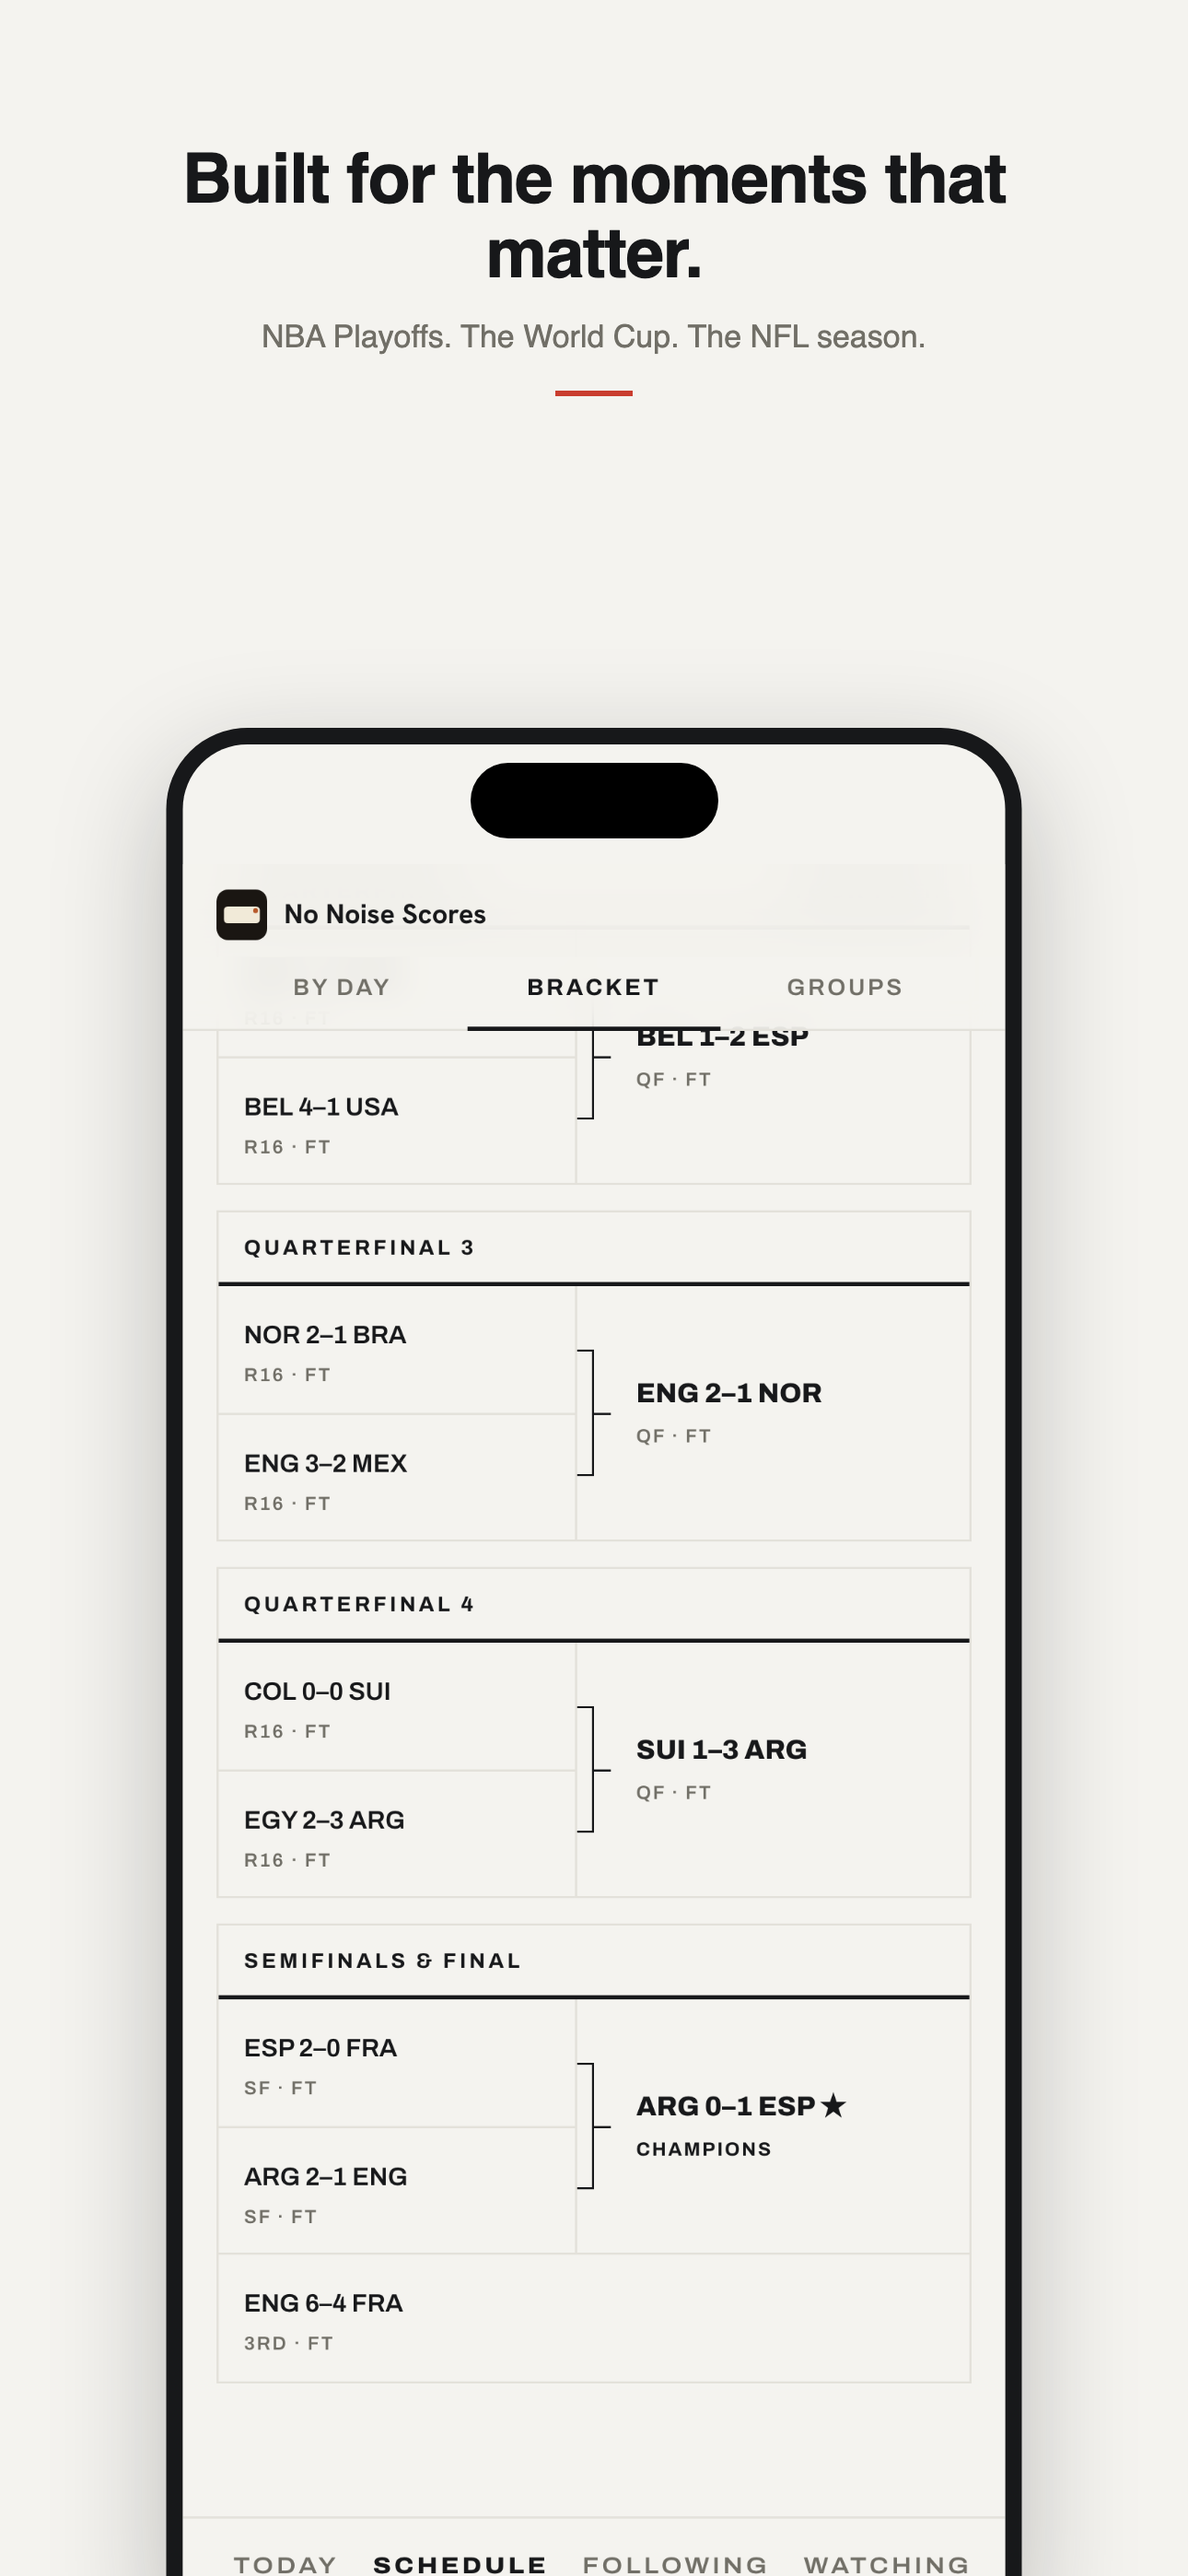
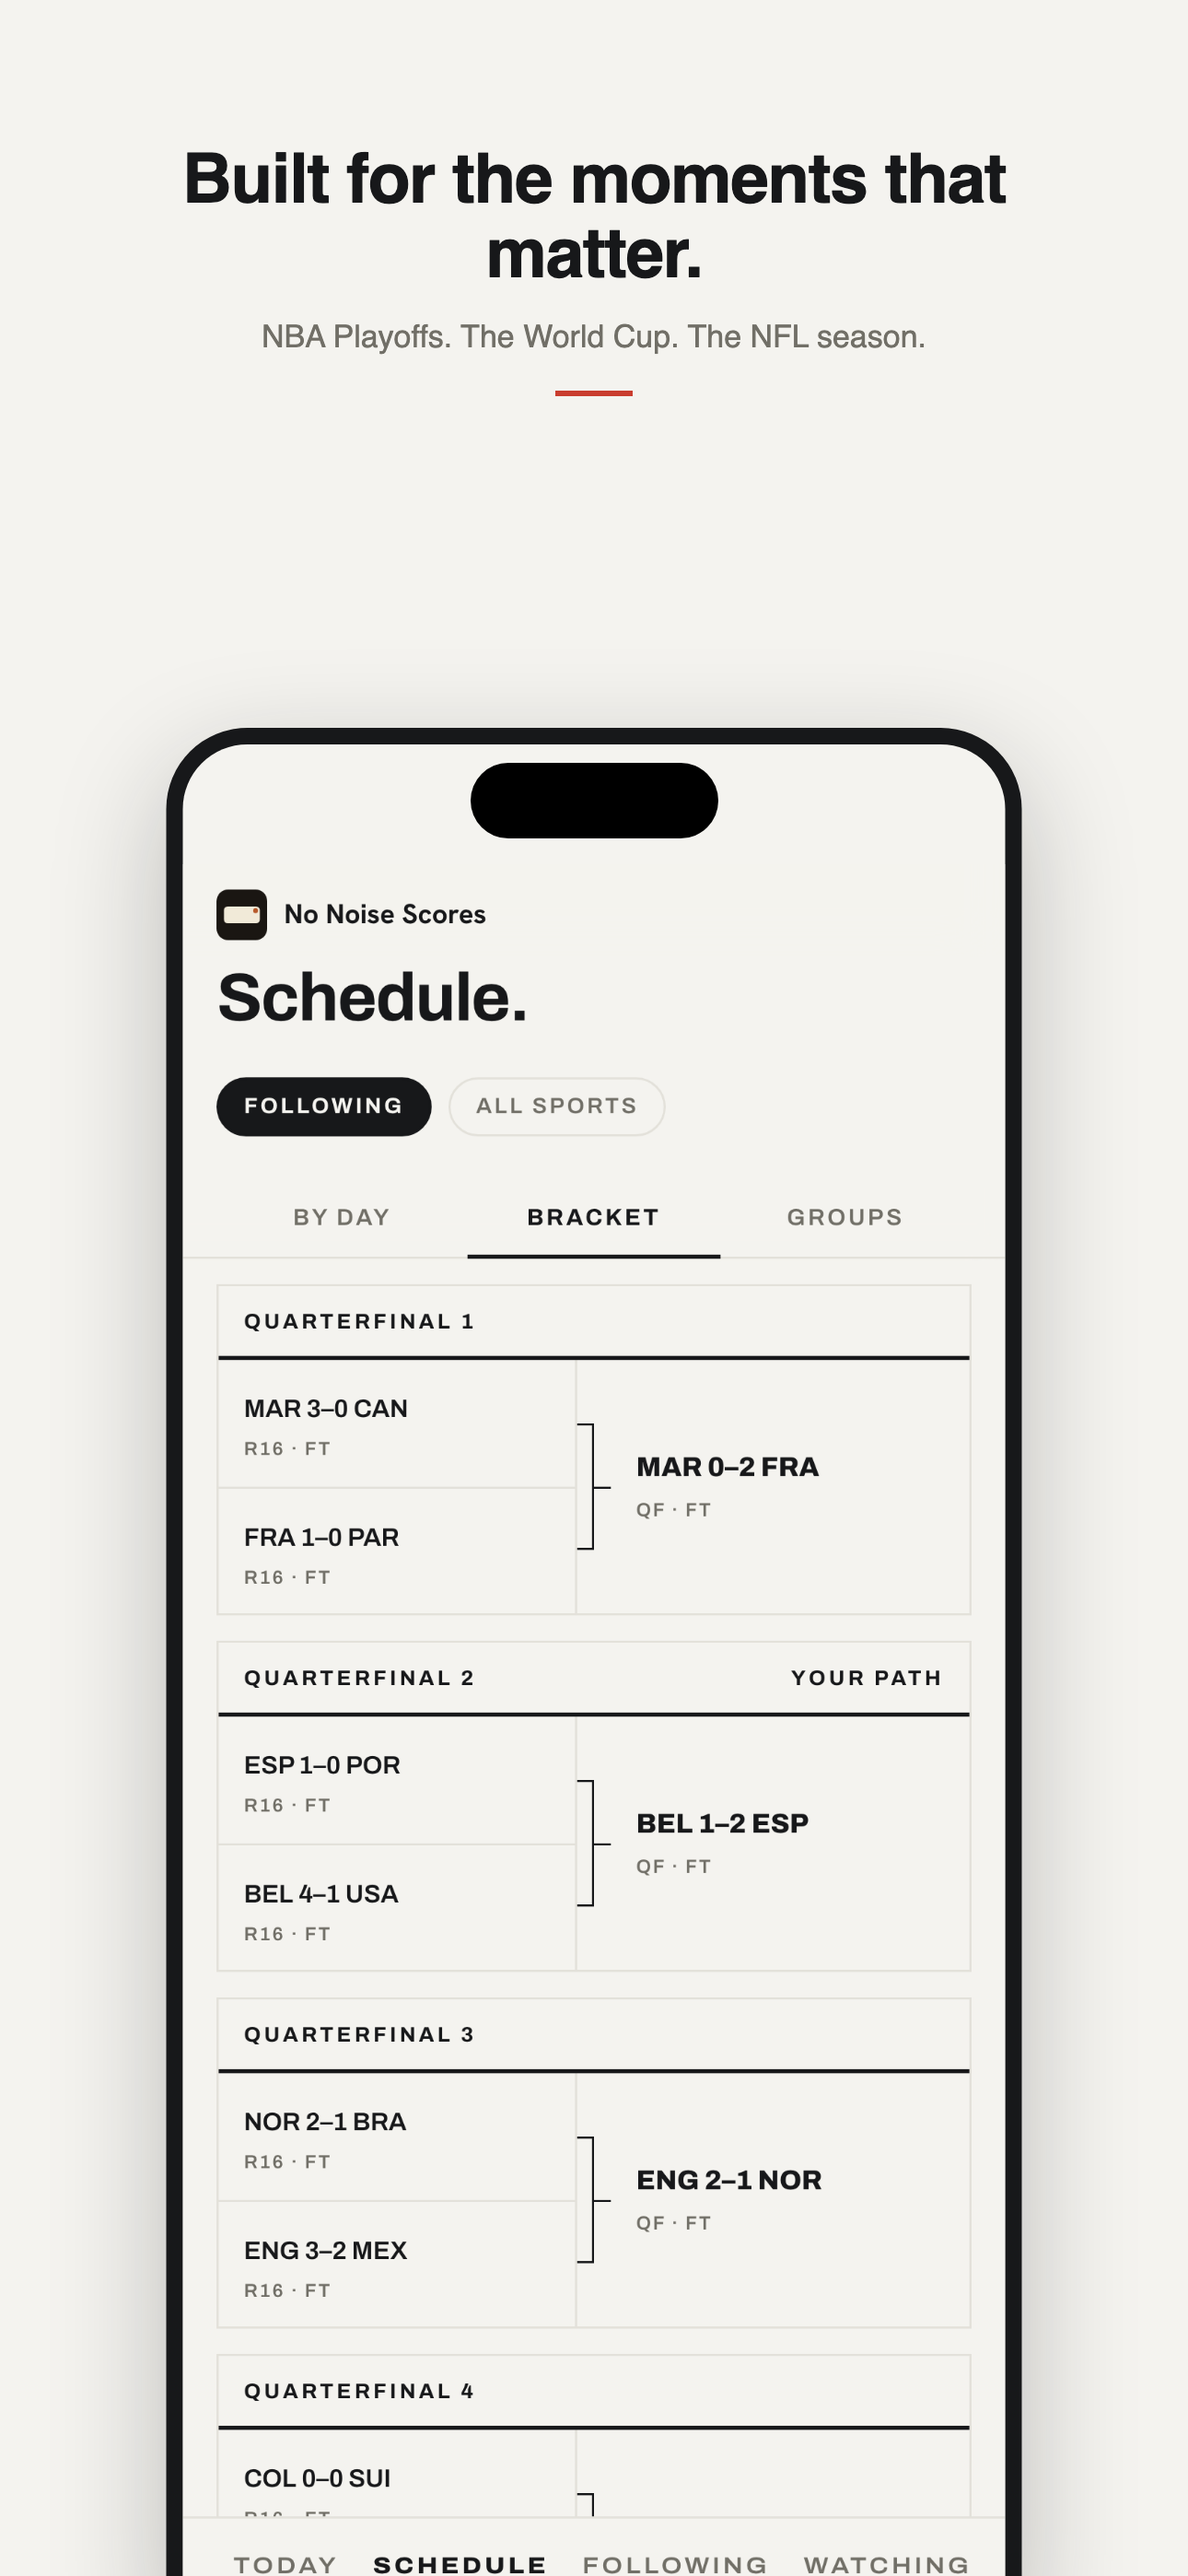
Store assets: reframe bracket shot to a clean top edge
Max scroll started the frame mid-card with clipped rows bleeding
through the translucent chrome. The frame now opens at the top of the
bracket (header, tabs, full quarterfinal cards, YOUR PATH); the bottom
cut hides behind the tab bar where it reads as scroll affordance.

diff --git a/docs/APP_STORE_CONTENT_v1.0.3.md b/docs/APP_STORE_CONTENT_v1.0.3.md
@@ -130,9 +130,11 @@ preseason week 3 finals, the real PHI@NE detail payload):
 6. `06-nba` — the real 2026 NBA Finals Game 5 (Knicks 94, Spurs 90,
    close out the series 4-1; ESPN archive). Real Who Mattered leaders
    (Brunson 45) and quarter line. Clock frozen the night of the game.
-7. `07-worldcup` — the real frozen bracket: quarterfinals through
-   ARG 0-1 ESP with the Champions star, YOUR PATH via an ESP follow.
-   Clock frozen the evening of the final (Jul 19).
+7. `07-worldcup` — the real frozen bracket from the top: full
+   Schedule header, Bracket tab active, complete quarterfinal cards
+   with YOUR PATH via an ESP follow. Framed unscrolled because the
+   bracket's max scroll starts mid-card (looked broken as a static
+   frame). Clock frozen the evening of the final (Jul 19).
 
 Set order in Connect: NFL first (1-5), breadth after (6-7). 14 PNGs
 total per size.
